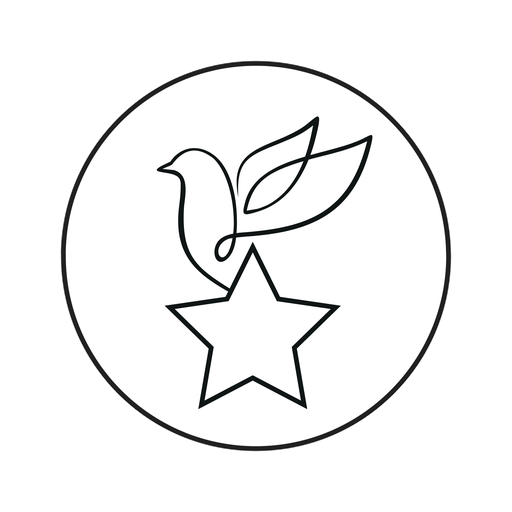
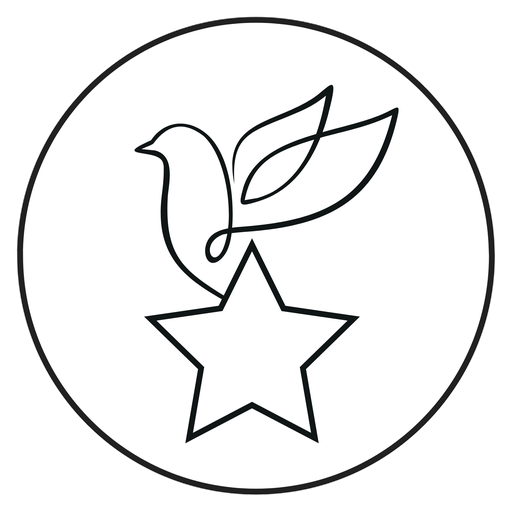
ig bro

diff --git a/app/layout.tsx b/app/layout.tsx
@@ -13,7 +13,9 @@ export const metadata: Metadata = {
   description: "Quiet, focused live leaderboards.",
   icons: {
     icon: [
-      { url: "/favicon.ico" },
+      { url: "/favicon-32.png", type: "image/png", sizes: "32x32" },
+      { url: "/favicon-16.png", type: "image/png", sizes: "16x16" },
+      { url: "/favicon.ico", sizes: "any" },
       { url: "/favicon.png", type: "image/png", sizes: "512x512" }
     ],
     shortcut: "/favicon.ico",